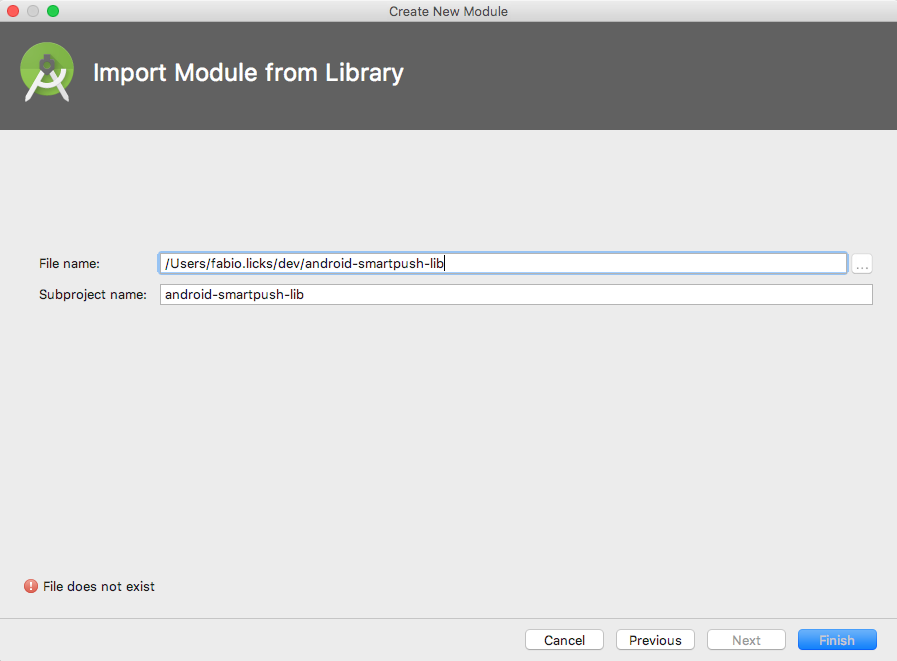
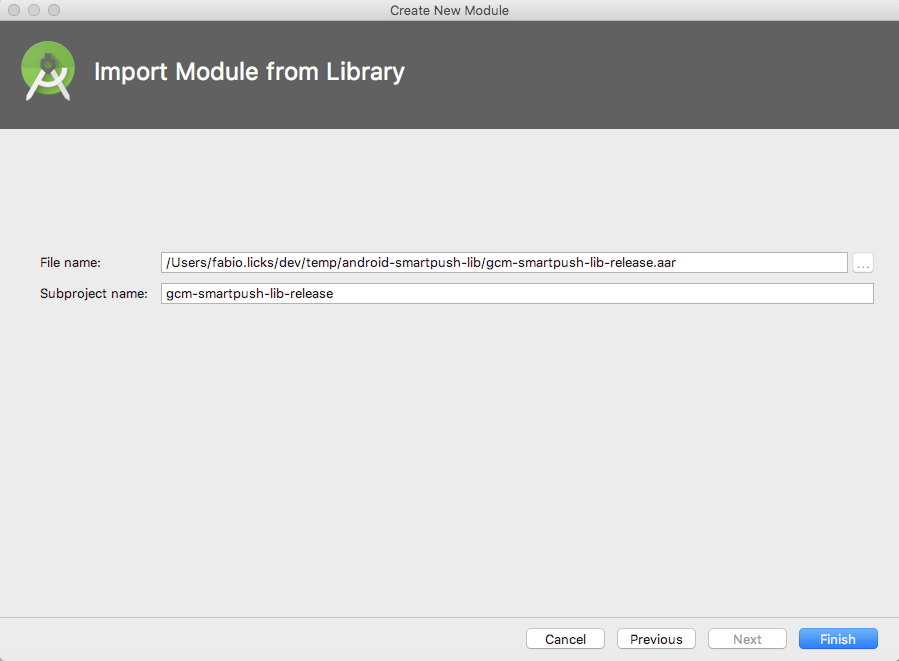
documentation

diff --git a/README.md b/README.md
@@ -17,17 +17,26 @@ Para adicionar suporte a push em sua aplicação android siga as instruções a 
 
 2. Abra o seu projeto de aplicação no _Android Studio_ e selecione adicionar um novo _módulo_.
 
-![Criando novo módulo](images/add_new_module.png)
+![Step1](images/add_new_module.png)
 
-Na janela que irá abrir, selecione a opção "Import JAR/AAR Package͟" conforme a
-figura abaixo. 
+Selecione a opção "Import JAR/AAR Package" conforme a figura abaixo. 
 
-![Criando novo módulo](images/add_new_module_2.png)
+![Step2](images/add_new_module_2.png)
 
 Na próxima tela, clique no botão para navegar pelo seu filesystem ...
 
-![Criando novo módulo](images/add_new_module_3.png)
+![Step3](images/add_new_module_3.png)
 
-... então localize o local onde você baixou a biblioteca, e então selecione o arquivo .aar, pressione OK e então FINISH. 
+... então navegue até o local onde você baixou a biblioteca, selecione o arquivo .aar, pressione OK e então FINISH. 
 
-![Criando novo módulo](images/add_new_module_4.png)
+![Step4](images/add_new_module_4.png)
+
+Agora no "_Project explorer_" selecione sua app, clique com o botão direito do mouse, e
+selecione a ação "_open module settings_". Conforme a figura a seguir:
+
+![Step5](images/add_new_module_5.png)
+
+Agora, vamos adicionar uma "_Module Dependency_" ao seu projeto. Clique no + dentro da aba "_Dependencies_", então na janela que irá abrir selecione o module :gcmsmartpush-lib-release
+e pressione ok. 
+
+![Step5](images/add_new_module_6.png)
